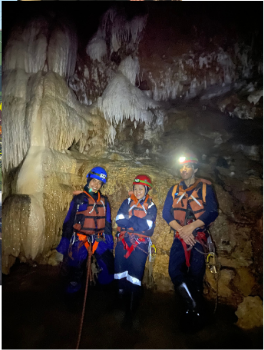
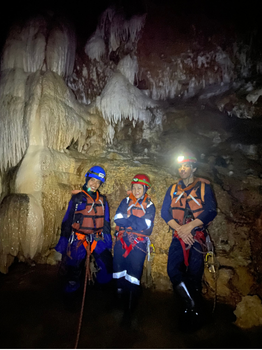
rebuild education collage from original photos

diff --git a/style.css b/style.css
@@ -384,7 +384,12 @@ nav { gap: 23px; color: var(--teal-deep); font-size: 13px; }
 .thesis-box small { color: #e7a4b5; font-weight: 700; letter-spacing: .14em; text-transform: uppercase; }
 .thesis-box p { margin: 9px 0 0; color: rgba(255,255,255,.86); font-size: 14px; line-height: 1.6; }
 .education-photo { margin: 28px 0 0; overflow: hidden; border: 1px solid rgba(255,255,255,.18); background: #fff; }
-.education-photo img { display: block; width: 100%; height: 340px; object-fit: contain; }
+.education-collage { position: relative; height: 430px; overflow: hidden; background: #f7f3ee; }
+.education-collage img { position: absolute; display: block; object-fit: cover; box-shadow: 0 8px 24px rgba(35,10,17,.16); }
+.education-collage .education-fieldwork { top: 0; right: 0; width: 72%; height: 36%; }
+.education-collage .education-graduation { bottom: 0; left: 0; z-index: 3; width: 58%; height: 83%; object-fit: contain; object-position: bottom center; background: white; box-shadow: none; }
+.education-collage .education-community { top: 35%; right: 0; z-index: 1; width: 60%; height: 34%; }
+.education-collage .education-caving { right: 0; bottom: 0; z-index: 2; width: 35%; height: 42%; object-position: center 70%; }
 .education-photo figcaption { padding: 11px 14px; background: rgba(255,255,255,.09); color: rgba(255,255,255,.72); font-size: 11px; letter-spacing: .08em; text-transform: uppercase; }
 
 .skills { border: 0; background: var(--teal-deep); color: white; }
@@ -513,7 +518,11 @@ footer { background: var(--paper); }
   .cover-marquee { gap: 16px; justify-content: flex-start; font-size: 16px; overflow: hidden; }
   .profile-intro h2, .skills h2, .experience-section h2, .project-copy h2, .certificates-heading h2 { font-size: 54px; }
   .education-profile { padding: 31px 25px; }
-  .education-photo img { height: 280px; }
+  .education-collage { height: 350px; }
+  .education-collage .education-fieldwork { width: 75%; height: 34%; }
+  .education-collage .education-graduation { width: 62%; height: 82%; }
+  .education-collage .education-community { width: 62%; height: 32%; }
+  .education-collage .education-caving { width: 38%; height: 42%; }
   .experience-row { grid-template-columns: 58px 1fr; gap: 20px; }
   .experience-row ul { grid-column: 1 / -1; }
   .experience-gallery { grid-column: 1 / -1; grid-template-columns: 1fr 1fr; grid-template-rows: 135px 135px; gap: 7px; padding: 7px; }

diff --git a/index.html b/index.html
@@ -75,9 +75,14 @@
             <small>Undergraduate thesis project</small>
             <p>The Use of AI-Driven Feedback as a Strategy to Reduce EFL Learners’ Reading Anxiety with the Use of Reading Coach Website</p>
           </div>
-          <figure class="education-photo">
-            <img src="assets/photos/education-collage.png" alt="Dila Nurhaliza’s university journey at Universitas Brawijaya, including graduation, community activities, and field experiences" loading="lazy" />
-            <figcaption>Universitas Brawijaya · learning, community, and field experience</figcaption>
+          <figure class="education-photo" aria-label="Dila Nurhaliza’s journey at Universitas Brawijaya">
+            <div class="education-collage">
+              <img class="education-graduation" src="assets/photos/education-graduation.png" alt="Dila Nurhaliza celebrating her graduation from Universitas Brawijaya" loading="lazy" />
+              <img class="education-fieldwork" src="assets/photos/education-fieldwork.png" alt="Dila and fellow Universitas Brawijaya students during a community field activity" loading="lazy" />
+              <img class="education-community" src="assets/photos/education-community.png" alt="Dila participating in a university community activity" loading="lazy" />
+              <img class="education-caving" src="assets/photos/adventure-caving.png" alt="Dila during a caving field experience" loading="lazy" />
+            </div>
+            <figcaption>Universitas Brawijaya · graduation, community, and field experience</figcaption>
           </figure>
         </article>
       </div>
